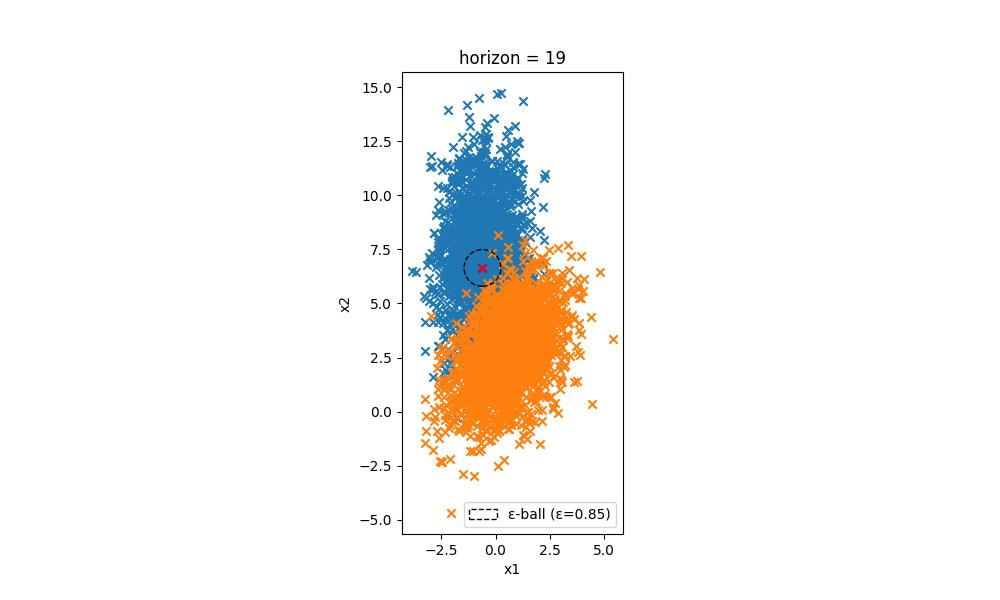
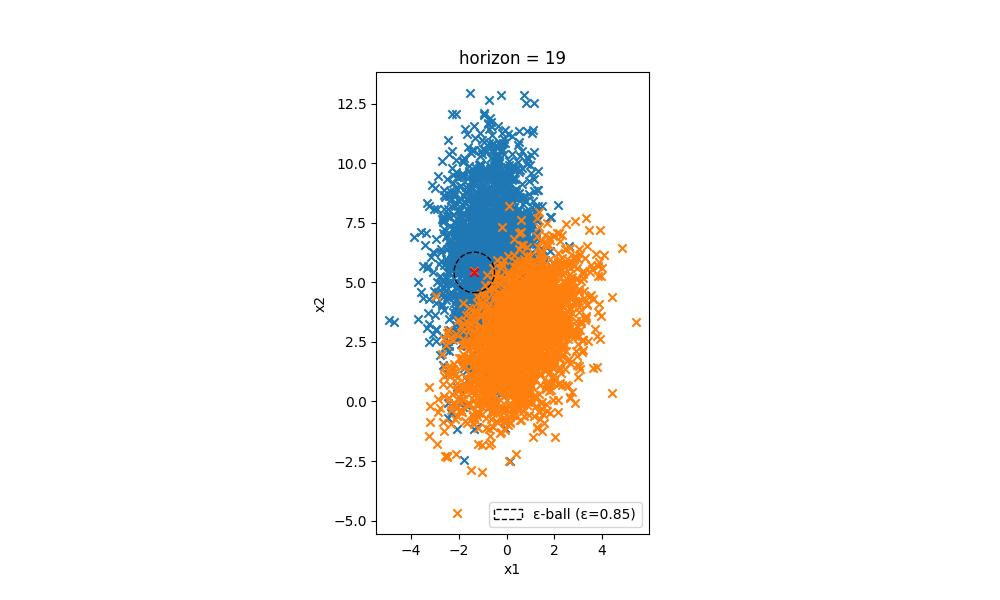
update

diff --git a/chi/chi3.py b/chi/chi3.py
@@ -23,7 +23,7 @@ x_0 = np.array([0.0, 0.0])
 T_list = range(1, 20)  
 sigma_0 = np.eye(n) * 0.1
 sigma_w_base = np.eye(n) * 0.1
-delta = 0.99
+delta = 0.9
 Q = np.diag([2.0, 3.0])
 q = norm.ppf(1 - delta)
 u_norm_diff_list = []
@@ -50,13 +50,54 @@ secu = []
 epu = []
 firstu = []
 modelu = []
+staru = []
 alleps = []
 
 x1_dev = []
 x2_dev = []
 x3_dev = []
 x4_dev = []
+x5_dev = []
 
+all_lam = []
+
+def solve_lambda(A, b, gamma, tol=1e-8, max_iter=100):
+    # 1. Eigenvalue Decomposition
+    # A is CT @ inv(Q) @ CT.T
+    eigenvalues, V = np.linalg.eigh(A)
+    
+    # 2. Transform b into the eigenvector space (b_tilde)
+    b_tilde = V.T @ b
+    b_sq = b_tilde**2
+    
+    # Check if a solution exists: gamma must be between the 'floor' and ||b||^2
+    floor = np.sum(b_sq[eigenvalues < 1e-12])
+    b_norm_sq = np.sum(b_sq)
+    
+    if gamma <= floor or gamma > b_norm_sq:
+        return None, f"No solution: gamma={gamma} is outside range ({floor}, {b_norm_sq})"
+
+    # 3. Newton-Raphson Solver
+    # We want to find x where f(x) = sum(b_sq / (1 + x*delta)^2) - gamma = 0
+    # Start with a guess (e.g., 0.1)
+    lam = 0.1 
+    
+    for i in range(max_iter):
+        denom = (1 + lam * eigenvalues)
+        f = np.sum(b_sq / (denom**2)) - gamma
+        
+        # Derivative f'(x) = sum(-2 * delta * b_sq / (1 + x*delta)^3)
+        f_prime = np.sum(-2 * eigenvalues * b_sq / (denom**3))
+        
+        new_lam = lam - f/f_prime
+        
+        # Convergence check
+        if abs(new_lam - lam) < tol:
+            return new_lam, "Success"
+        
+        lam = new_lam
+        
+    return lam, "Did not converge"
 
 
 for t in T_list:
@@ -138,7 +179,11 @@ for t in T_list:
         print(f'Convex solver failed at T={t}')
     if u_c4 is None:
         print(f'Convex solver failed at T={t}')
-
+    #expression u
+    lam, status = solve_lambda(C_T @ np.linalg.inv(Q_tilde) @ np.transpose(C_T), b, r_cheb, 1e-8, 100)
+    
+    u_star = -lam* np.linalg.inv(Q_tilde + lam * np.transpose(C_T) @ C_T) @ np.transpose(C_T) @ b
+    all_lam.append(lam)
     # --- Simulate both systems ---
     np.random.seed(0)
    
@@ -146,17 +191,20 @@ for t in T_list:
     x2 = []
     x3 = []
     x4 = []
+    x5 = []
 
     s1 = []
     s2 = []
     s3 = []
     s4 = []
+    s5 = []
     for j in range(0, 5000):
         w = np.random.multivariate_normal(np.zeros(n*t), np.eye(n*t)*0.1)
         x1T = np.linalg.matrix_power(A, t) @ x_0 + C_T @ u_convex + N_T @ w  # second order
         x2T = np.linalg.matrix_power(A, t) @ x_0 + C_T @ u_c2 + N_T @ w  # chebyshev
         x3T = np.linalg.matrix_power(A, t) @ x_0 + C_T @ u_c3 + N_T @ w  # epsilon 
         x4T = np.linalg.matrix_power(A, t) @ x_0 + C_T @ u_c4 + N_T @ w
+        x5T = np.linalg.matrix_power(A, t) @ x_0 + C_T @ u_star + N_T @ w
         x1.append(np.linalg.norm(x1T-x_f))
         count1 = sum(d <= epsilon for d in x1)
         x2.append(np.linalg.norm(x2T-x_f))
@@ -165,20 +213,25 @@ for t in T_list:
         count3 = sum(d <= epsilon for d in x3)
         x4.append(np.linalg.norm(x4T - x_f))
         count4 = sum(d <= epsilon for d in x4)
+        x5.append(np.linalg.norm(x5T - x_f))
+        count5 = sum(d <= epsilon for d in x5)
         s1.append(x1T)
         s2.append(x2T)
         s3.append(x3T)
         s4.append(x4T)
+        s5.append(x5T)
     
     x1_dev.append(np.average(x1))
     x2_dev.append(np.average(x2))
     x3_dev.append(np.average(x3))
     x4_dev.append(np.average(x4))
+    x5_dev.append(np.average(x5))
    
     s1 = np.array(s1)
     s2 = np.array(s2)
     s3 = np.array(s3)
     s4 = np.array(s4)
+    s5 = np.array(s5)
 
     # --- Record metrics ---
     cheb_norm = u_c2.T @ Q_tilde @ u_c2
@@ -186,6 +239,7 @@ for t in T_list:
     sec_norm = u_convex.T @ Q_tilde @ u_convex
     det_norm = u_c4.T @ Q_tilde @ u_c4
     model_norm = u_model.T @ Q_tilde @ u_model
+    star_norm = u_star.T @ Q_tilde @ u_star
     # u_norm_diff = np.linalg.norm(u_c3) - np.linalg.norm(u_convex)
     
     
@@ -201,12 +255,15 @@ for t in T_list:
     u_det = u_c4.reshape(t, m)
     udet_norms = np.linalg.norm(u_det, axis = 1)
 
+    
+
 
 
     chebu.append(cheb_norm)
     epu.append(ep_norm)
     secu.append(sec_norm)
     firstu.append(det_norm)
+    staru.append(star_norm)
 
     center = (x_f[0], x_f[1])
 
@@ -292,6 +349,7 @@ plt.plot(N, x2_dev, label = 'chebyshev')
 plt.plot(N, x3_dev, label = 'epsilon sd')
 plt.plot(N, x1_dev, label = '2nd order state dev')
 plt.plot(N, x4_dev, label = 'first order')
+plt.plot(N, x5_dev, label = 'lambda u')
 
 # plt.semilogy(N, first_avg, label = 'det state dev')
 # plt.semilogy(N, modeld, label = 'model state dev')
@@ -307,6 +365,7 @@ plt.plot(N, chebu, label = 'cheby norm')
 plt.plot(N, epu, label = 'epsilon norm')
 plt.plot(N, secu, label = 'second order norm')
 plt.plot(N, firstu, label = 'first order norm')
+plt.plot(N, staru, label = 'lambda u')
 # plt.plot(N, modelu, label = 'model norm')
 plt.xlabel('time horizon')
 plt.ylabel('u* norms')
@@ -324,7 +383,13 @@ plt.title('delta = {}'.format(delta))
 plt.legend()
 plt.savefig('eps-T.jpeg')
 
-
+plt.figure(figsize = (10, 6))
+N = np.arange(0, len(all_lam))
+plt.plot(N, all_lam, label = 'lambda*')
+plt.title('lambda* vs time horizon')
+plt.xlabel('time horizon')
+plt.ylabel('lambda*')
+plt.savefig('lambda.jpeg')
 #cdf of GCS using imhof's method and satterthwaite and their comparison
 
 

diff --git a/gp/gp_ucb.py b/gp/gp_ucb.py
@@ -277,7 +277,7 @@ for hor in T_list:
             x_f = x_d
         else:
             x_f = np.linalg.matrix_power(A,1) @ x_0 + B @ ut + wt
-        b = A@x_0 - x_f
+        b = A@x_0 - x_d
     
         x_f = x_f.reshape(-1)
         alpha = epsilon**2  + (traceSigma/delta) - 2*epsilon*math.sqrt(traceSigma/delta)
@@ -285,7 +285,7 @@ for hor in T_list:
         U =  osample_u(CT, b, alpha, 100)
         U = U.reshape(U.shape[0], -1)
 
-        x_0 = x_f
+        
 
         oalgo = ogp_ucb(U)
         OX_obs = []
@@ -300,7 +300,9 @@ for hor in T_list:
     
             OY_obs.append(y)
             mean, cov = oalgo.updation(np.array(OY_obs), np.array(OX_obs))
-        
+        wk = np.random.normal(n)    
+        x_n = A @ x_0 + B @ OX_obs[-1] + wk
+        x_0 = x_n
         final_u.append(OX_obs[-1])    
 
 

diff --git a/exist.py b/exist.py
@@ -1,0 +1,11 @@
+import numpy as numpy
+import matplotlib.pyplot as plt
+import os
+import math
+import GPy
+
+#Thompson sampling
+#RL based: Q learning, V learning, etc
+#GP based learning
+
+
